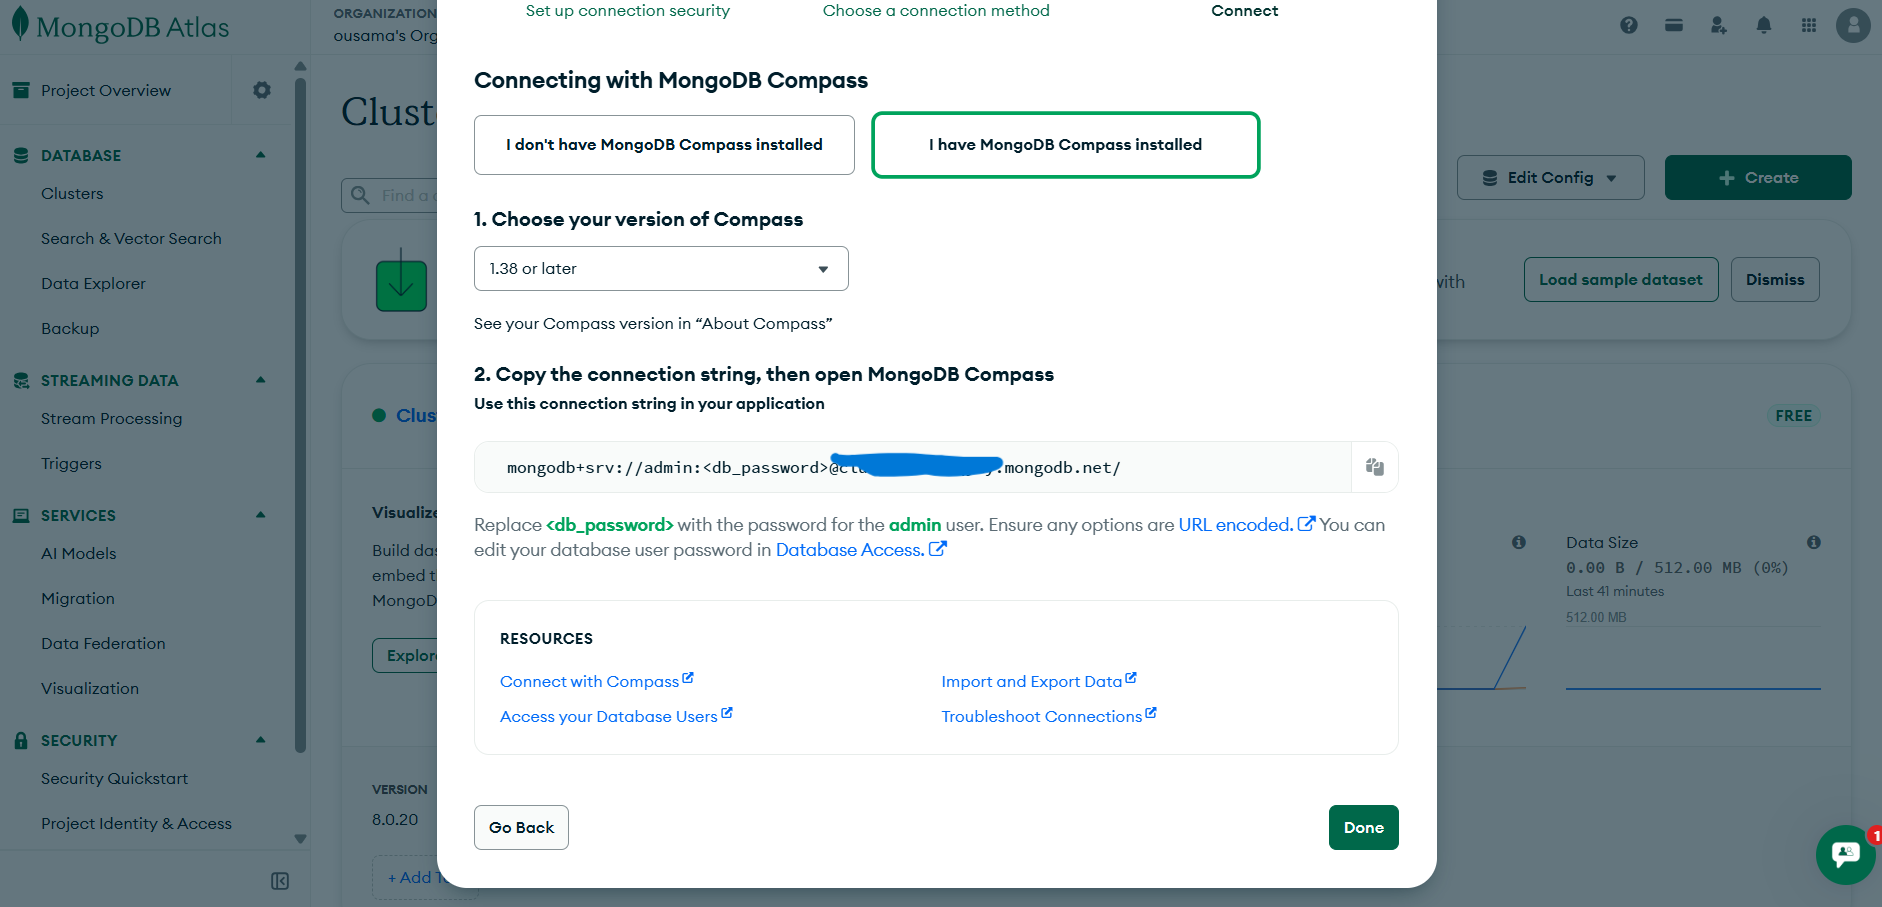
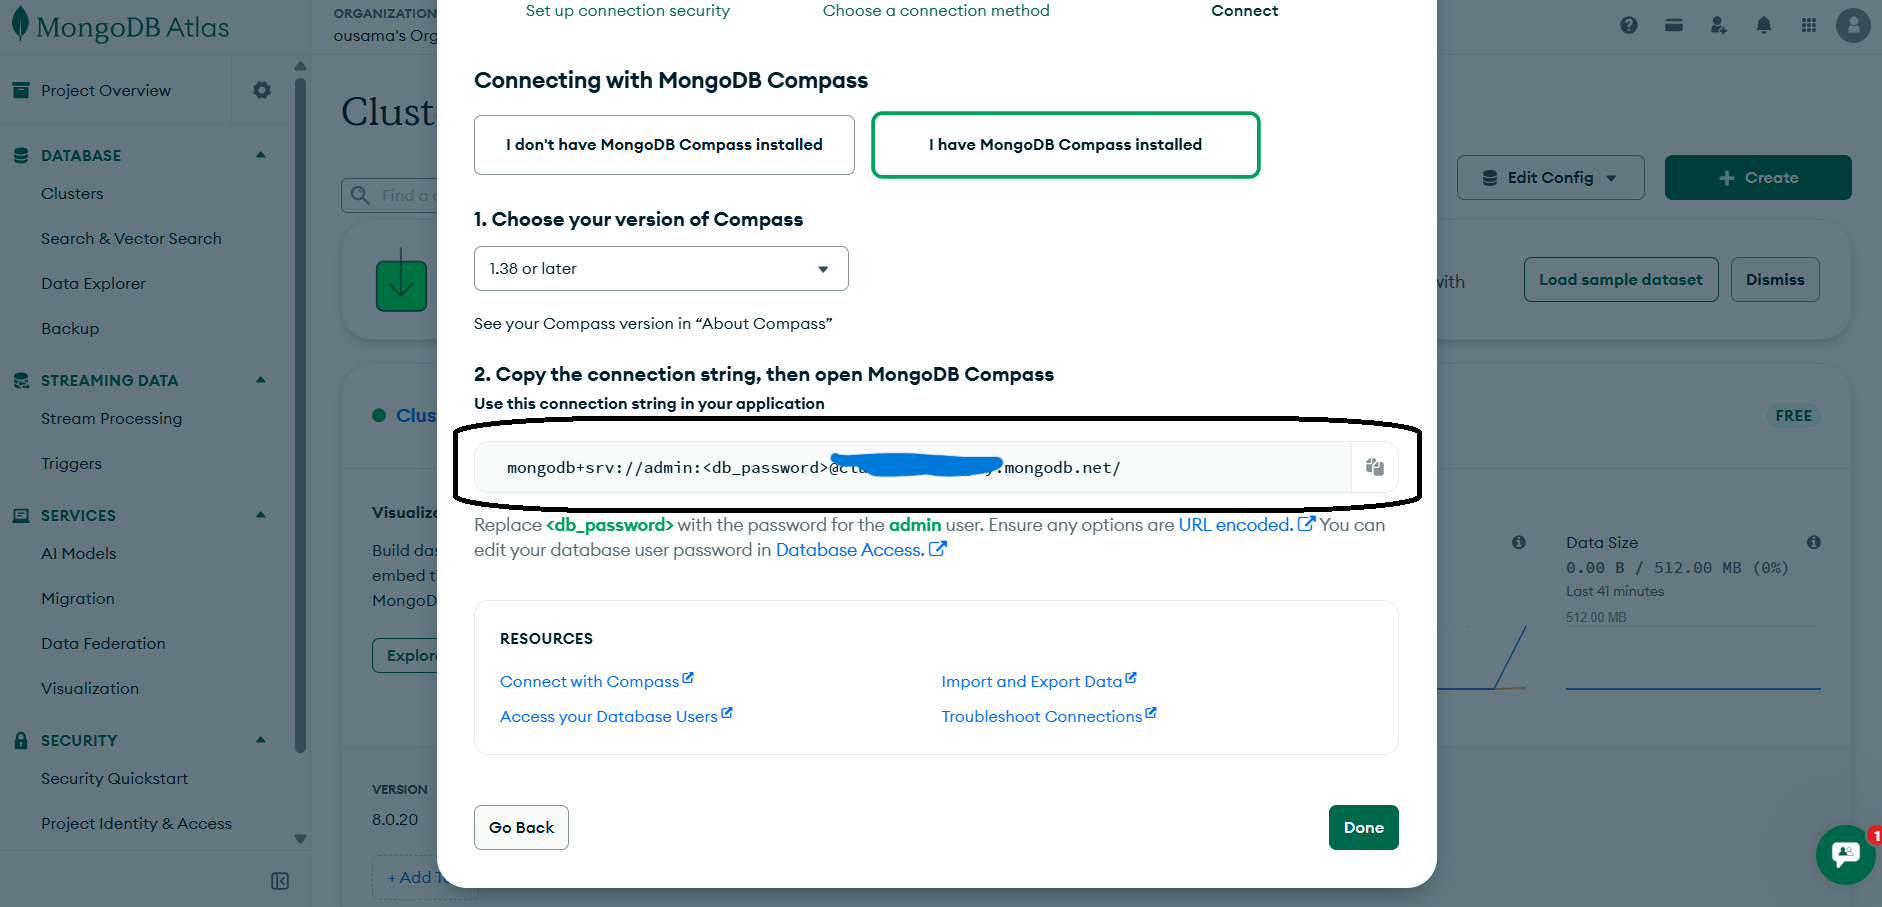
Enhance README with detailed MongoDB Atlas setup instructions and updated images

diff --git a/README.md b/README.md
@@ -567,21 +567,33 @@ After successfully installing Chocolatey, you can use the following commands to 
         1.  Sign in to [MongoDB Atlas](https://www.mongodb.com/cloud/atlas)
 
         2. Deploy a Cluster :
-        `A "cluster" is the set of servers that will host your databases.`
+
+            `A "cluster" is the set of servers that will host your databases.`
+
             From the Project Overview, click + Create to start the cluster creation
+
             For better performance, choose a region close to your Kubernetes (K8s) cluster
+
             ![cluster_creation](images/DB/mangoAtlas/cluster_creation.png)
+
         3. Set Up Connection Security
+
            ![connet_cluster1](images/DB/mangoAtlas/connet_cluster1.png)
-        - Add a Connection IP Address
+
+        - Add a Connection IP Address :
+
             Alternatively, you can allow access from anywhere (0.0.0.0/0), but this is not recommended for production environments.
+
         -  Create a Database User
 
-        ![alt text](images/DB/mangoAtlas/cluster_created.png)
+            ![alt text](images/DB/mangoAtlas/cluster_created.png)
 
         4. Connect with MongoDB Compass (GUI)
-        ![alt text](images/DB/mangoAtlas/mongo_compass.png)
+            ![alt text](images/DB/mangoAtlas/connect_with_compass.png)
+        - Copy the connection string provided by MongoDB Atlas.
+            ![alt text](images/DB/mangoAtlas/mongo_compass.png)
         - Replace <db_password> with your actual database user password.
+        - Paste the connection string into MongoDB Compass to connect to your cluster.
 
         u are Connected
 8. Manifest file creation
